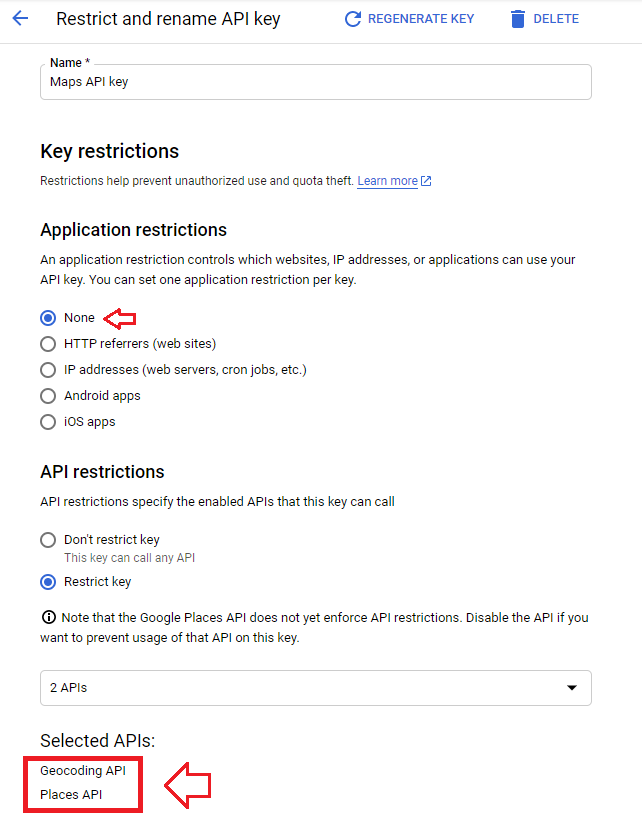
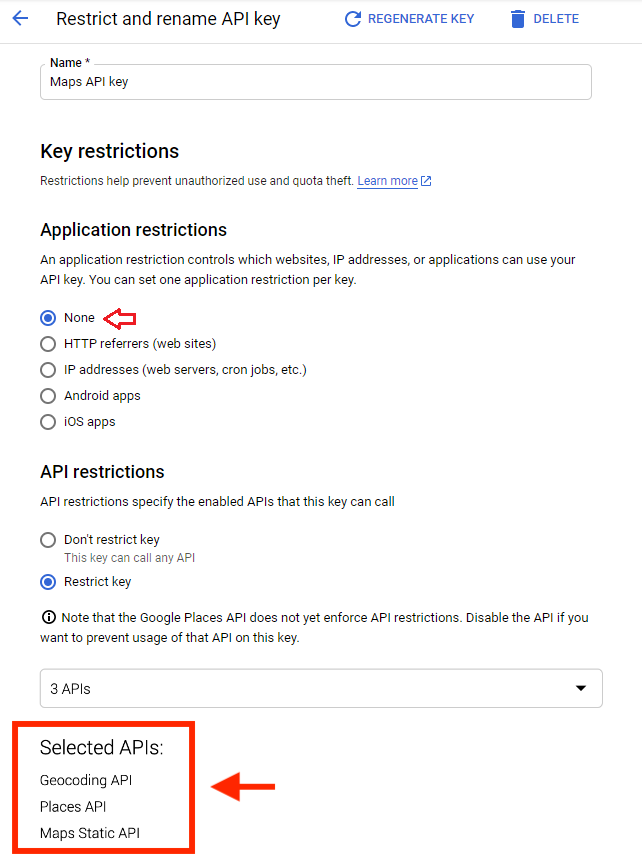
Updated documentation

diff --git a/library/src/main/java/com/rtchagas/pingplacepicker/PingPlacePicker.kt b/library/src/main/java/com/rtchagas/pingplacepicker/PingPlacePicker.kt
@@ -31,8 +31,11 @@ class PingPlacePicker private constructor() {
         }
 
         /**
-         * This key will be used to nearby searches and reverse geocoding
-         * requests to Google Maps HTTP API.
+         * This key will be used to nearby searches, static maps and
+         * reverse geocoding requests to Google Maps APIs.
+         *
+         * Refer to the [documentation](https://raw.githubusercontent.com/rtchagas/pingplacepicker/master/images/maps_api_key.png)
+         * to check how your key must be configured.
          */
         fun setMapsApiKey(geoKey: String): IntentBuilder {
             mapsApiKey = geoKey
@@ -50,6 +53,7 @@ class PingPlacePicker private constructor() {
 
         /**
          * Sets a signature to be used in API calls.
+         *
          * Key must be one listed in PingPlacePicker.KEY_SIGNATURE_*
          */
         fun setSignature(key: String, value: String): IntentBuilder {

diff --git a/README.md b/README.md
@@ -36,7 +36,7 @@ To do that, enable this flag in your project:
  <bool name="enable_nearby_search">true</bool>
 ```
 
-By doing so, PING behavior will be slightly changed:
+By doing so, PING behaviour will be slightly changed:
 - All places will be fetched by /nearbysearch queries.
 - You get a button to refresh the the places for the current location.
 - You can set the initial map position to get the places from via `pingBuilder.setLatLng(LatLng)`
@@ -147,7 +147,7 @@ It was decided to split the API keys to clearly distinguish what you're going to
 | Key | Restriction | Purpose
 |--|--|--|
 | Android key | [Android Applications](https://developers.google.com/places/android-sdk/signup#restrict-key) | Used as the Places API key. Main purpose is to retrieve the current places and place details.
-| Maps key | [APIs: Geocoding and Places API only](https://cloud.google.com/docs/authentication/api-keys#api_key_restrictions) | Used to fetch nearby places through Places Web API and perform reverse geocoding on the current user position. That is, discover the address that the user is current pointing to. Your key should look [like this](https://raw.githubusercontent.com/rtchagas/pingplacepicker/master/images/maps_api_key.png).
+| Maps key | [APIs: Geocoding, Maps Static and Places API only](https://cloud.google.com/docs/authentication/api-keys#api_key_restrictions) | Used to fetch static maps, nearby places through Places Web API and perform reverse geocoding on the current user position. That is, discover the address that the user is current pointing to. Your key should look [like this](https://raw.githubusercontent.com/rtchagas/pingplacepicker/master/images/maps_api_key.png).
 
 **TIP:** It is strongly recommended to **not expose** your Maps API key in your resource files. Anyone could decompile your apk and have access to that key. To avoid this, the key should be at least obfuscated.
 A nice approach is to save the key in the cloud through "Firebase remote config" and fetch it at runtime.
